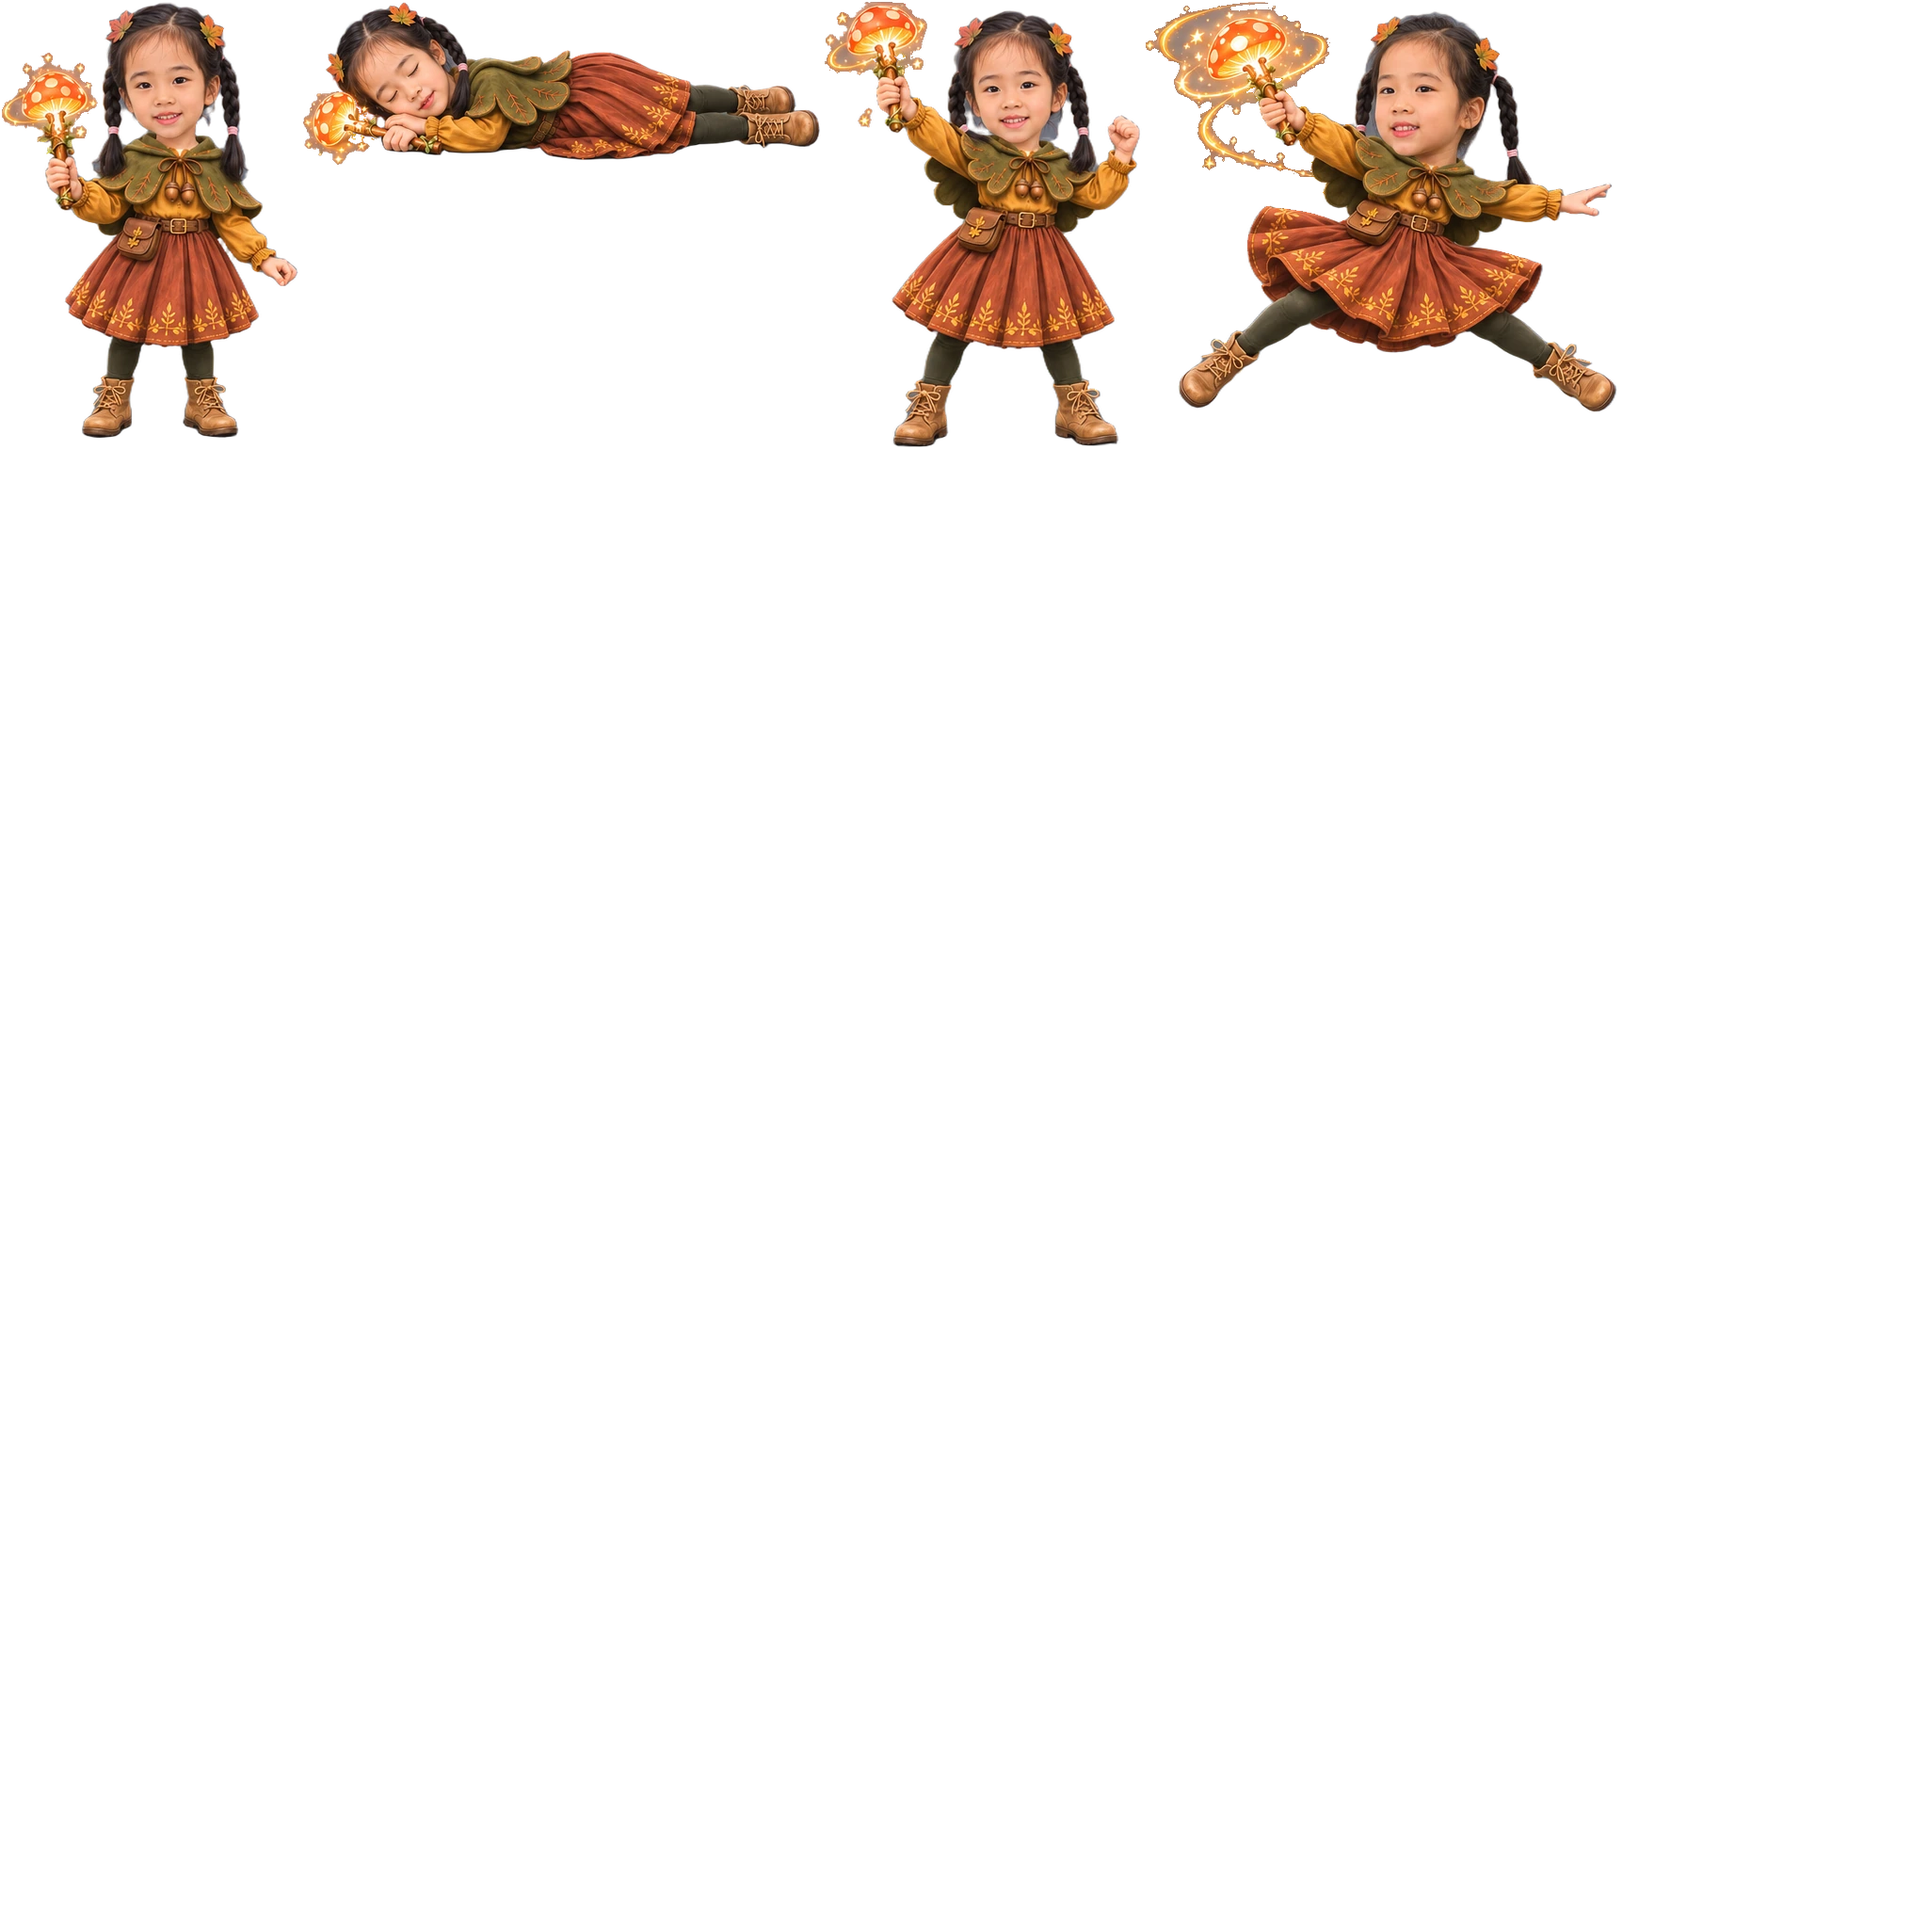
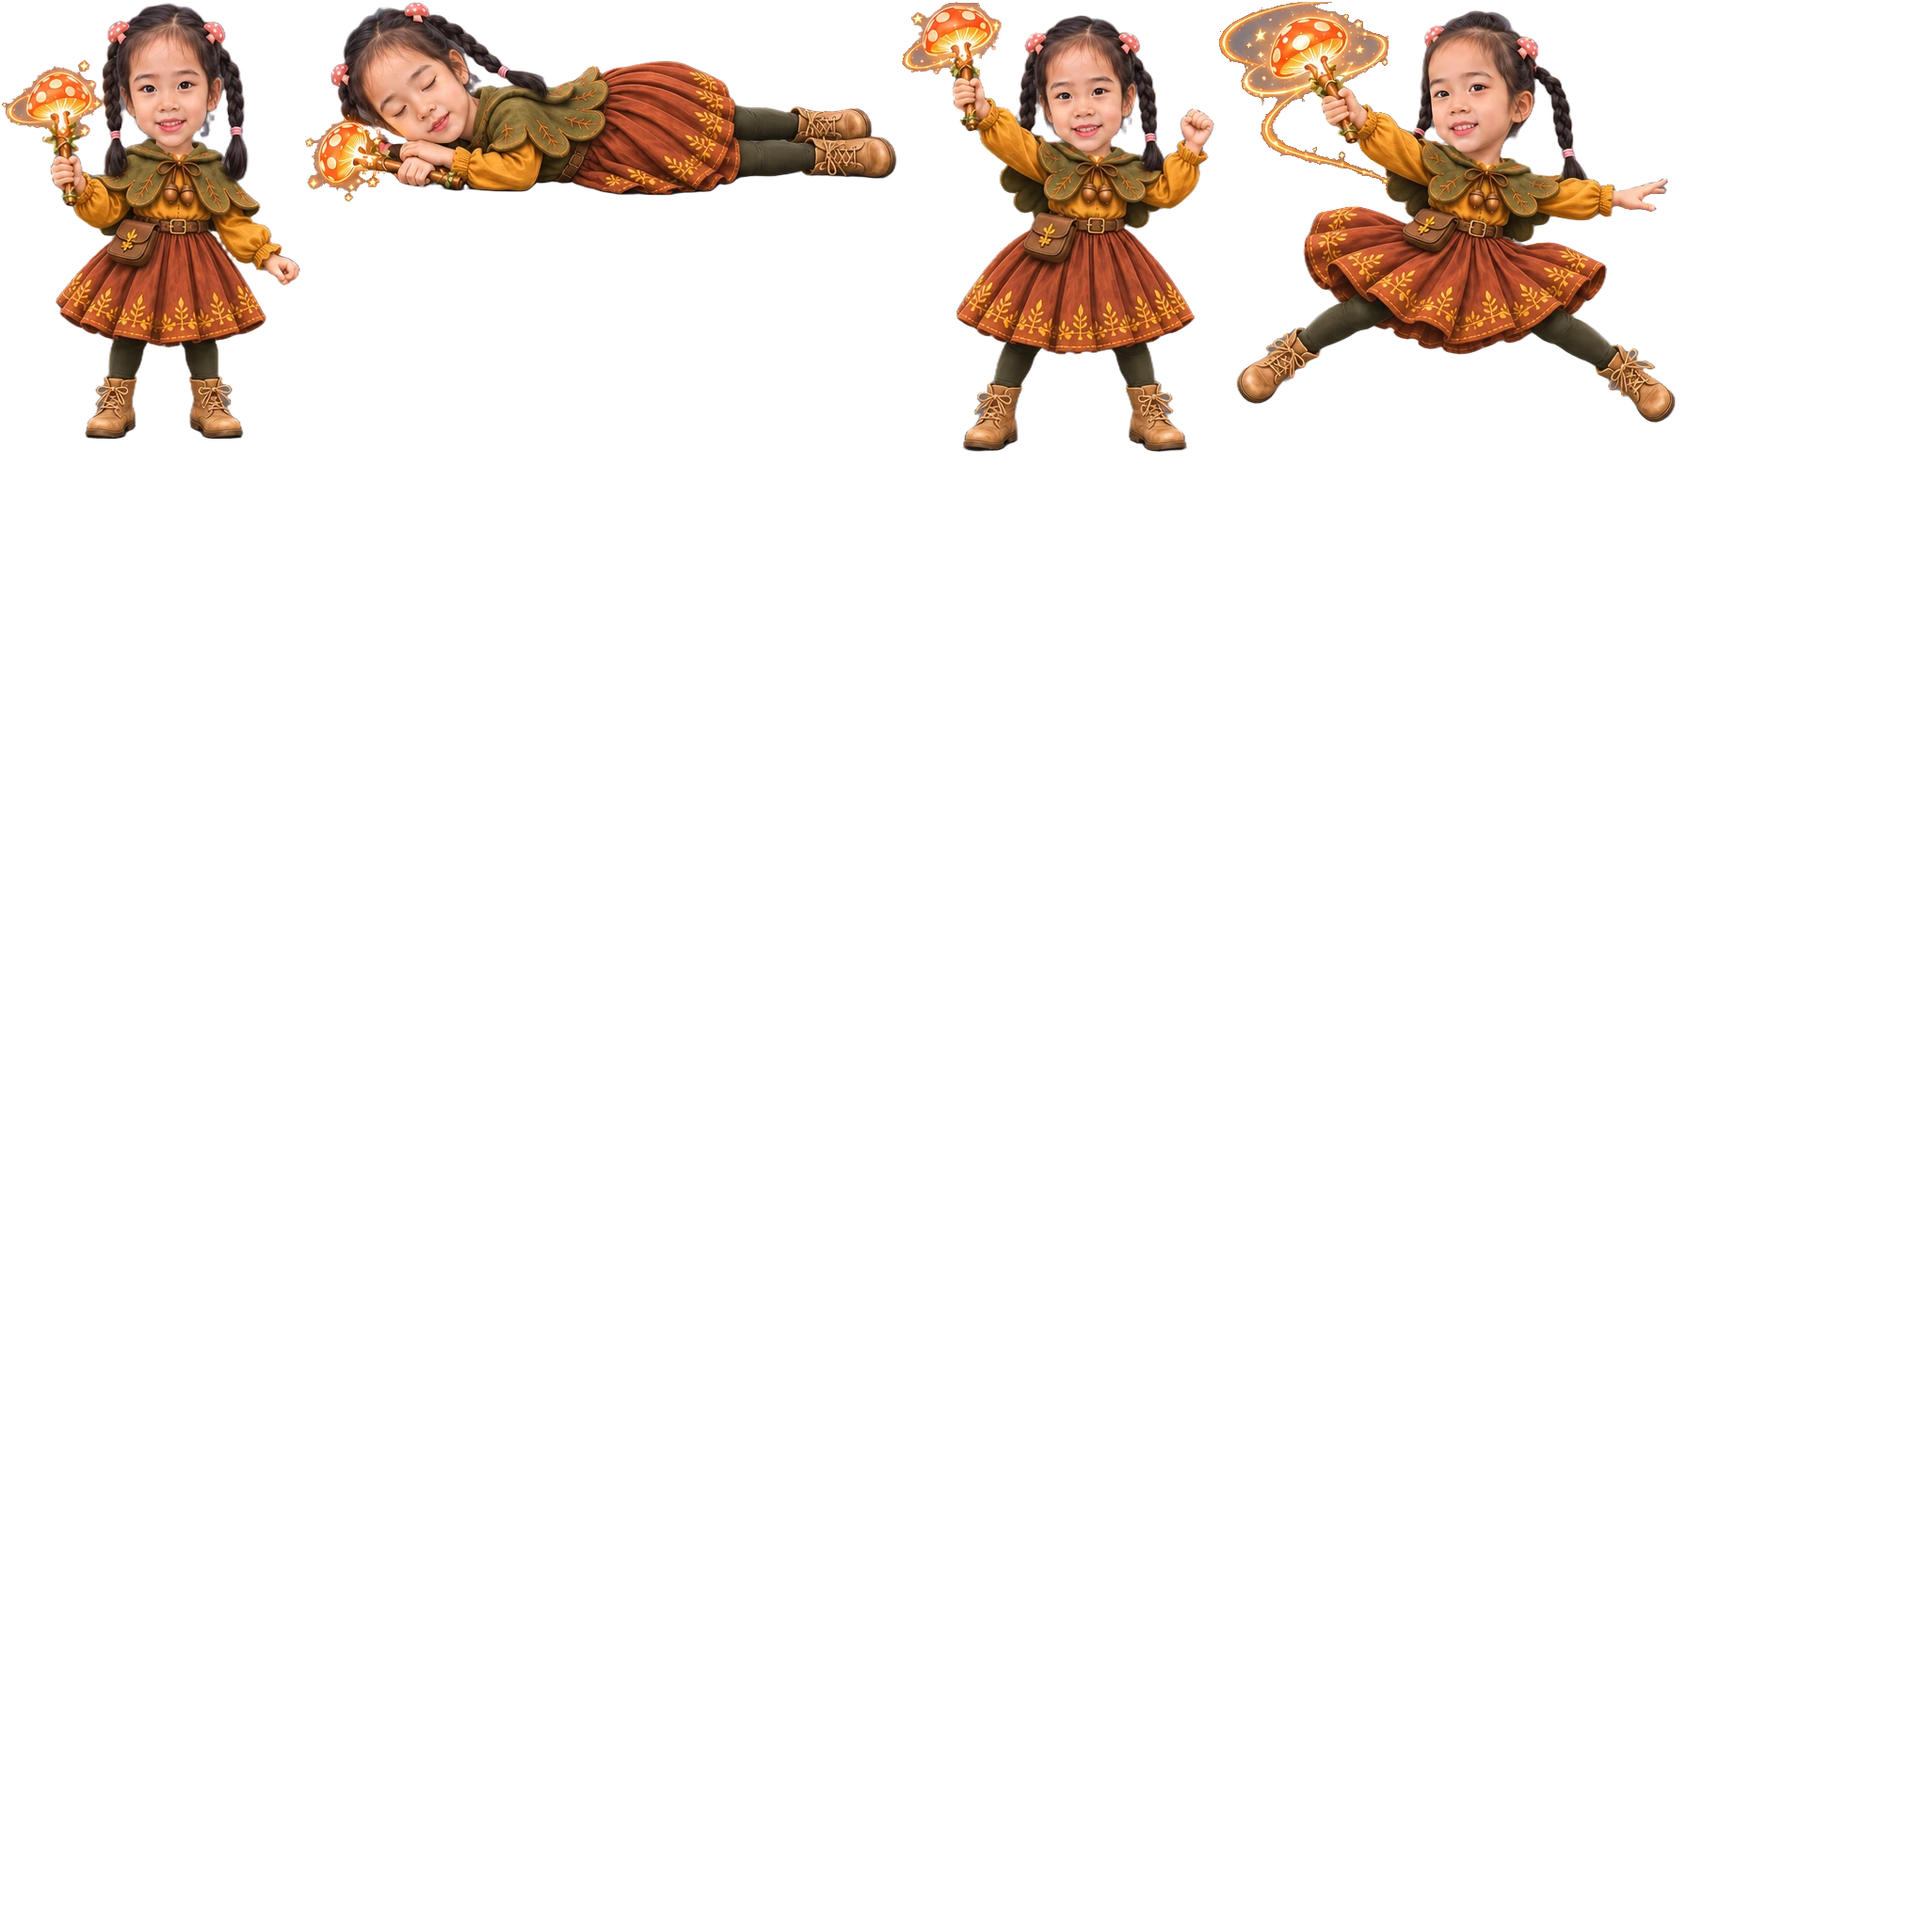
Đồng Cỏ 261104.2044: đồng nhất mặt Nấm theo Tiên Nấm Hồng

Changed region(s): [[0.0, 0.0, 0.875, 0.25]]

diff --git a/index.html b/index.html
@@ -256,7 +256,7 @@
 
 <div id="rotate">Xoay ngang iPad để chơi nhé</div>
 
-<script src="wardrobe.js?v=261104.2014"></script>
+<script src="wardrobe.js?v=261104.2044"></script>
 <script>
 (() => {
   "use strict";
@@ -309,7 +309,7 @@
   }
   function loadImg(src) { return new Promise((res, rej) => { const i = new Image(); i.onload = () => res(i); i.onerror = rej; i.src = src; }); }
   // ---------------------------------------------------------------- version: the site build stamps BUILD_VER and writes version.json beside the page
-  const BUILD_VER = "261104.2014", isBuilt = !BUILD_VER.startsWith("__");
+  const BUILD_VER = "261104.2044", isBuilt = !BUILD_VER.startsWith("__");
   async function latestVer() {
     try { return (await (await fetch("version.json?x=" + Date.now(), { cache: "no-store" })).json()).v; } catch (e) { return null; }
   }
